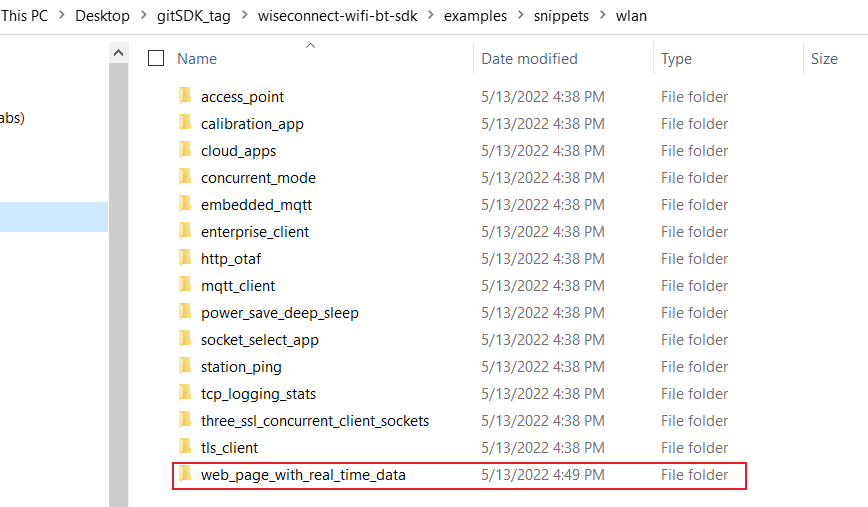
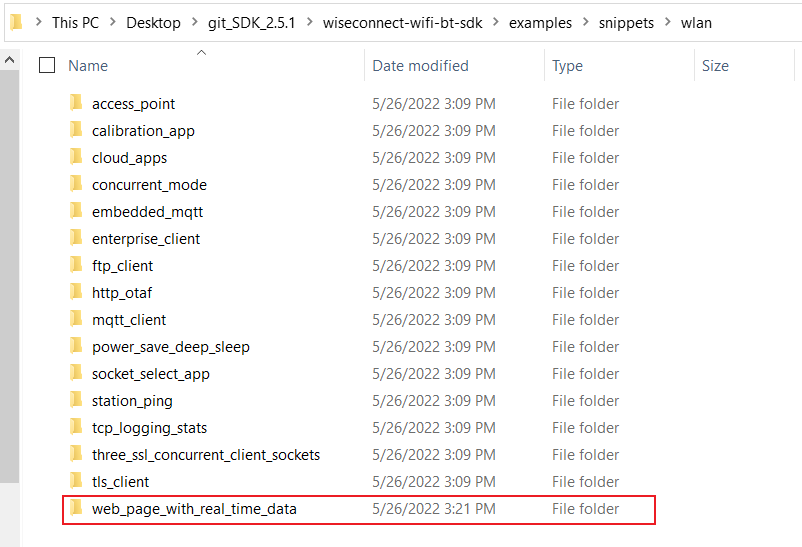
request to review the project

Changed region(s): [[0.0, 0.0, 1.0, 1.0]]

diff --git a/iot-pa-wifi-web_page_with_real_time_data/readme.md b/iot-pa-wifi-web_page_with_real_time_data/readme.md
@@ -30,11 +30,11 @@ For this lab, you will need the following:
 
 - Simplicity Studio v5 (v5.1.2.0 or higher)
 
-         a. Download the simplicity studio from [Simplicity Studio](https://www.silabs.com/developers/simplicity-studio).
+   a. Download the simplicity studio from [Simplicity Studio](https://www.silabs.com/developers/simplicity-studio).
 
-         b. Follow the [Simplicity Studio user guide](https://docs.silabs.com/simplicity-studio-5-users-guide/1.1.0/ss-5-users-guide-getting-started/install-ss-5-and-software#install-ssv5) to install Simplicity Studio.
+   b. Follow the [Simplicity Studio user guide](https://docs.silabs.com/simplicity-studio-5-users-guide/1.1.0/ss-5-users-guide-getting-started/install-ss-5-and-software#install-ssv5) to install Simplicity Studio.
 
-- 2.5.1 RS9116 NCP release package.
+- 2.5.1 RS9116 NCP release package from the [link](https://github.com/SiliconLabs/wiseconnect-wifi-bt-sdk/tree/2.5.1). 
 
 - **web_page_with_real_time_data** project folder
 
@@ -72,14 +72,14 @@ This section describes the hardware setup and the connections.
        | UULP_3 (for RS9116 chip version-1.3 & below)|                 9 |
 
 If the interconnect board is not available, make the connections between RS9116 NCP and EFR32 Host MCU as described below.
-**![](resources/setup2.png)**
+**![](resources/setup2.PNG)**
 **![](resources/connections.PNG)**
 
 ## Application flow
 
 This flow chart describes the application flow.
 
-**![](resources/flow_chart_app.png)** 
+**![](resources/flow_chart_app.PNG)** 
 
 **NOTE**: 
 1. The application does not automatically resume from the beginning, in case the application flow fails at any point. The module should be reset again.
@@ -90,7 +90,7 @@ power save mode. Thereafter, the application flow gets halted as no URL request 
 
 The following section describes how to set up Simplicity IDE in Windows Operating System.
 
-1. Ensure the RS9116 NCP module is pre-loaded with 2.5.1 firmware released by Silicon Labs following the steps mentioned in https://docs.silabs.com/rs9116-wiseconnect/latest/wifibt-wc-getting-started-with-pc/update-evk-firmware.
+1. Ensure the RS9116 NCP module is pre-loaded with 2.5.1 firmware (RS9116W.2.5.1.0.5.rps) following the steps mentioned in https://docs.silabs.com/rs9116-wiseconnect/latest/wifibt-wc-getting-started-with-pc/update-evk-firmware.
 
 2. Launch the Simplicity Studio IDE on your PC.
 
@@ -117,37 +117,29 @@ The following section describes how to set up Simplicity IDE in Windows Operatin
 
    **![](resources/SDK_updated_locally.PNG)**
 
-6. If this latest repo does not contain the desired SDK, check for available tags (repositories, that point to other SDKs whose version is lower than the latest one) of the repo by giving the below command in the command prompt opened at path:
-**<Simplicity_Studio_Installed_Path> → SimplicityStudio → v5 → developer → repos → wiseconnect-wifi-bt-sdk**
-
-     ``` 
-     git tag 
-     ```
-**![](resources/cmd.PNG)** 
-**![](resources/tags.PNG)**  
+6. If this is the desired SDK (2.5.1), the SDK path <SDK_path> will be as given in point 5.b, else clone or download the desired SDK to your drive at any location (ensure this does not have too long path) and that location will be your SDK path <SDK_path> 
         
-7. Select the desired tag and create a new folder (in this case, it is **gitSDK_tag**) locally at any path and give the below git command at that path.
 
    ```
    git clone https://github.com/SiliconLabs/wiseconnect-wifi-bt-sdk.git --branch=<tag name> 
    ```
 
-   In this case, the tag name selected was **2.4.1**. Hence the command given is as follows:
+   In this case, the tag used is **2.5.1**. Hence the command given is as follows:
 
    ```
-   git clone https://github.com/SiliconLabs/wiseconnect-wifi-bt-sdk.git --branch=2.4.1 
+   git clone https://github.com/SiliconLabs/wiseconnect-wifi-bt-sdk.git --branch=2.5.1 
    ```
 
-**![](resources/clone_2.4.1.PNG)**  
+**![](resources/clone_2.5.1.PNG)**  
 
-8. Now, you can place the **web_page_with_real_time_data** project folder in the above cloned SDK at path: **\<SDK_path\> → examples → snippets → wlan**
+7. Now, you can place the **web_page_with_real_time_data** project folder in the above cloned SDK at path: **\<SDK_path\> → examples → snippets → wlan**
 
-**![](resources/project_copied.PNG)** 
+**![](resources/project_copied.png)** 
 																							
 
-9. Ensure the EFR32 and RS9116 NCP setup is connected to your PC and the power save connections are properly made.
+8. Ensure the EFR32 and RS9116 NCP setup is connected to your PC and the power save connections (if needed) are properly made.
 
-10. When EFR32 is connected to the PC, radio board detection is indicated as below.
+9. When EFR32 is connected to the PC, radio board detection is indicated as below.
 
 **![](resources/radio_board.PNG)**
 
@@ -359,22 +351,22 @@ The Virtual COM (VCOM) port interface is used for printing out debug prints from
 
 3. Hit Enter on the Serial 1 tab to establish a serial connection between PC and setup.
 
-**![](resources/serial_com.png)**
+**![](resources/serial_com.PNG)**
 
 ### Debug the project
 
 1. To flash the code, right click on the project name and select **Debug As** → **Silicon Labs ARM Program**.
   - If the EFR32xG21 has an older SE firmware, the following warning may pop up. Click ‘Yes’ to continue
 
-  **![](resources/warning1.png)**
+  **![](resources/warning1.PNG)**
 
   - If the connected EFR32 board has any other radio board other than 20dbm, Simplicity Studio will not be able to detect the device and gives the below pop-up window for Device Selection. Select the device displayed and click OK.
 
-  **![](resources/warning2.png)**
+  **![](resources/warning2.PNG)**
 
   - The following warning might pop-up as shown below, Click Yes and continue. 
 
-  **![](resources/warning3.png)**
+  **![](resources/warning3.PNG)**
 
 2. As soon as the debug process is completed, the application control branches to the main().
 
@@ -387,7 +379,7 @@ The Virtual COM (VCOM) port interface is used for printing out debug prints from
 
 3. If the flow of application until IP configuration is successful, the following debug prints will appear on the Serial 1 tab.
 
-**![](resources/ip_configuration.png)** 
+**![](resources/ip_configuration.PNG)** 
 
 4. Now enter the IP Address of the module (which is displayed on the Serial 1 tab) in the URL field of Smart Phone/Laptop/PC’s
 browser (make sure that the device you are using to browse is connected to the same network to which RS9116 NCP module is connected). The following webpage will be displayed. Observe the debug prints parallelly on the Serial 1 tab.
@@ -411,19 +403,19 @@ web page until it gets completely loaded on the browser.
 
   - Upon clicking the dropdown menu, the regions will be listed as shown below. Select any of the regions listed.
 
-**![](resources/dropdown.PNG)**  
+  **![](resources/dropdown.PNG)**  
 
   - Click on Submit. The date along with running time in the selected region will be displayed.
 
-**![](resources/time_run.PNG)**
+  **![](resources/time_run.PNG)**
 
   - When clicked on the Get Temperature tab, the temperature value in Kelvin, Celsius, and Fahrenheit units will be displayed on the web page.
 
-**![](resources/temp1.png)**
+  **![](resources/temp1.png)**
 
-  - The background image of the webpage changes in accordance with the temperature, depicting the degree of hotness or coldness.
+   - The background image of the webpage changes in accordance with the temperature, depicting the degree of hotness or coldness.
 
-**![](resources/temp2.png)**
+   **![](resources/temp2.png)**
 
 
 6. When clicked on the Display Wi-Fi Networks tab, the scan results along with their Security Mode and RSSI values in dBm will be displayed on the web page in the descending order of their RSSI values.
